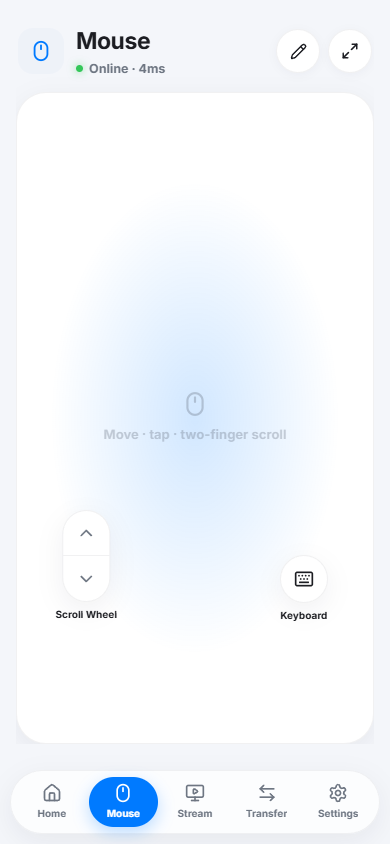
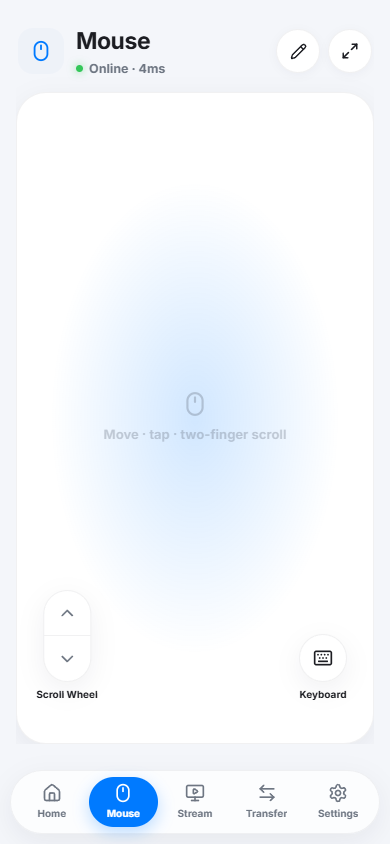
fix(mouse): anchor Scroll Wheel/Keyboard defaults to actual bottom corners

diff --git a/frontend/src/features/mouse/buttons/catalog.ts b/frontend/src/features/mouse/buttons/catalog.ts
@@ -14,16 +14,17 @@ export function getMouseButtonMeta(type: MouseButtonInstance['type']): MouseButt
   return MOUSE_BUTTON_CATALOG.find((b) => b.type === type);
 }
 
-/** First-run panel — scroll wheel bottom-left, keyboard bottom-right, with
- * their LABELS level (not their centers). The scroll wheel is a 92px pill and
- * the keyboard a 48px circle — centering both at the same y would leave the
- * shorter keyboard's label sitting ~27px higher. Verified against the
- * rendered geometry at a 390x844 viewport: offsetting the keyboard's y by
+/** First-run panel — scroll wheel anchored in the bottom-left corner, keyboard
+ * in the bottom-right corner, with their LABELS level (not their centers).
+ * The scroll wheel is a 92px pill and the keyboard a 48px circle — centering
+ * both at the same y would leave the shorter keyboard's label sitting ~27px
+ * higher. Verified against the rendered geometry at a 390x844 viewport:
+ * offsetting the keyboard's y by
  * (halfHeight_scroll - halfHeight_keyboard) / panelHeight * 100 ≈ +3.6
  * makes both buttons' bottom edges — and therefore both labels — align. */
 export const DEFAULT_MOUSE_BUTTONS: MouseButtonInstance[] = [
-  { id: 'default-scroll', type: 'scrollWheel', x: 16, y: 74 },
-  { id: 'default-keyboard', type: 'keyboard', x: 84, y: 77.6 },
+  { id: 'default-scroll', type: 'scrollWheel', x: 10, y: 87 },
+  { id: 'default-keyboard', type: 'keyboard', x: 90, y: 90.6 },
 ];
 
 const DEFAULT_COLS = 4;